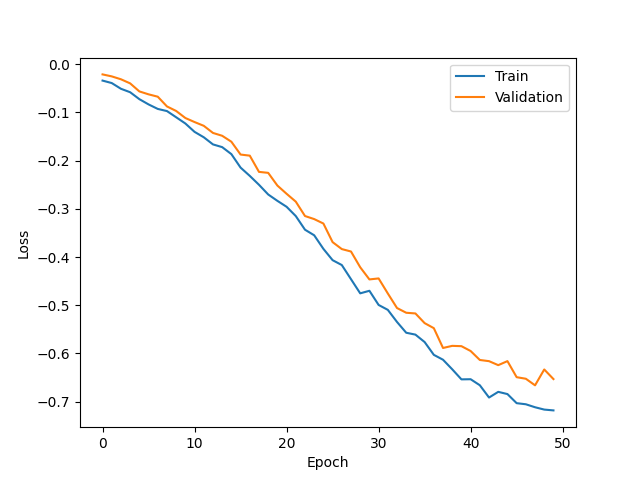
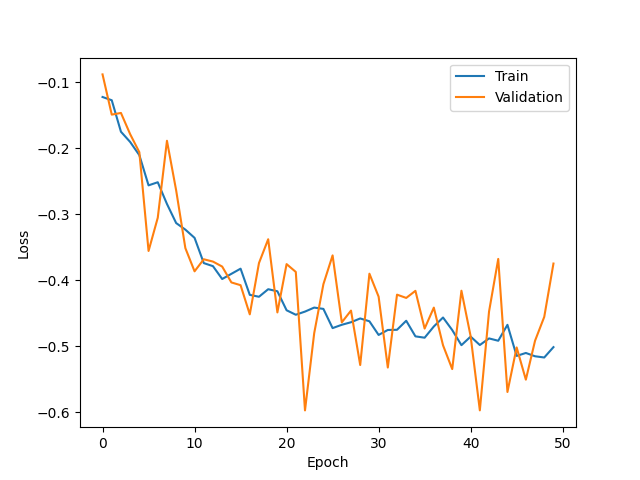
fix

diff --git a/src/make_data.py b/src/make_data.py
@@ -64,16 +64,17 @@ class DatasetGenerator:
         np.random.seed(self.seed)
         T_prob = sigmoid(
             (
-                np.dot(features[:, :2], np.random.uniform(1.0, 1.5, size=2))
-                - 1.0
+                np.sum(features, axis=1)
+                - 2.0
                 + np.random.normal(0, 0.0, size=len(features))
             )
-            / 1.5
+            / 0.8
         )
         T_prob = T_prob.clip(0.01, 0.99)
         T: NDArray[Any] = np.random.binomial(1, T_prob).astype(bool)
         treatment_prob = T_prob[T == 1]
         control_prob = T_prob[T == 0]
+        # plt.hist(T_prob, bins=20, alpha=0.5, label="T_prob")
         plt.hist(treatment_prob, bins=20, alpha=0.5, label="T=1")
         plt.hist(control_prob, bins=20, alpha=0.5, label="T=0")
         plt.legend()
@@ -120,12 +121,10 @@ class DatasetGenerator:
         np.random.seed(self.seed)
 
         def effect(features: NDArray[Any]) -> Tuple[NDArray[Any], NDArray[Any]]:
-            baseline_effect = np.dot(
-                features[:, :2], np.random.uniform(1.0, 1.5, 2)
-            )
+            baseline_effect = np.dot(features[:, :2], np.random.uniform(0.7, 1.0, 2)) - 1.0
             interaction_effect = np.exp(
                 np.dot(features[:, 2:4], np.random.uniform(0.3, 0.5, 2))
-                + 0.4 * features[:, 0]
+                + 0.2 * features[:, 0]
             )
             return baseline_effect, interaction_effect
 
@@ -135,7 +134,7 @@ class DatasetGenerator:
         noise = np.random.normal(0, std, size=len(features))
         a = 2.0
         prob_visit = np.clip(
-            sigmoid((baseline_effect + treatment_effect - a) / (2 * a)) + noise,
+            sigmoid((baseline_effect + treatment_effect - a) / (a)) + noise,
             0.01,
             0.99,
         )
@@ -148,28 +147,26 @@ class DatasetGenerator:
         baseline_effect_control, interaction_effect_control = effect(control_features)
         prob_visit_treatment = np.clip(
             sigmoid(
-                (baseline_effect_treatment + interaction_effect_treatment - a) / (2 * a)
+                (baseline_effect_treatment + interaction_effect_treatment - a) / (a)
             )
             + noise[: len(treatment_features)],
             0.01,
             0.99,
         )
         prob_visit_control = np.clip(
-            sigmoid((baseline_effect_control - a) / (2 * a))
+            sigmoid((baseline_effect_control - a) / (a))
             + noise[len(treatment_features) :],
             0.01,
             0.99,
         )
         prob_visit_treatment_if_non_treatment = np.clip(
-            sigmoid((baseline_effect_treatment - a) / (2 * a))
+            sigmoid((baseline_effect_treatment - a) / (a))
             + noise[: len(treatment_features)],
             0.01,
             0.99,
         )
         prpb_visit_control_if_treatment = np.clip(
-            sigmoid(
-                (baseline_effect_control + interaction_effect_control - a) / (2 * a)
-            )
+            sigmoid((baseline_effect_control + interaction_effect_control - a) / (a))
             + noise[len(treatment_features) :],
             0.01,
             0.99,
@@ -184,7 +181,9 @@ class DatasetGenerator:
             alpha=0.5,
             label="if_non_treatment",
         )
-        # plt.hist(prpb_visit_control_if_treatment, bins=20, alpha=0.5, label="if_treatment")
+        plt.hist(
+            prpb_visit_control_if_treatment, bins=20, alpha=0.5, label="if_treatment"
+        )
         plt.legend()
         plt.savefig("visit_prob.png")
         # import pdb
@@ -210,10 +209,12 @@ class DatasetGenerator:
         np.random.seed(self.seed)
 
         def effect(features: NDArray[Any]) -> Tuple[NDArray[Any], NDArray[Any]]:
-            baseline_effect = np.dot(features[:, 0].reshape(-1, 1), np.random.uniform(1.5, 2.0, 1))
+            baseline_effect = np.dot(
+                features[:, 0].reshape(-1, 1), np.random.uniform(1.0, 1.5, 1)
+            ) - 1.0
             interaction_effect = np.exp(
-                np.dot(features[:, 2].reshape(-1, 1), np.random.uniform(0.5, 0.7, 1))
-                + 0.4 * features[:, 0]
+                np.dot(features[:, 2].reshape(-1, 1), np.random.uniform(0.3, 0.5, 1))
+                + 0.2 * features[:, 0]
             )
             return baseline_effect, interaction_effect
 
@@ -223,8 +224,7 @@ class DatasetGenerator:
         noise = np.random.normal(0, std, size=len(features))
         a = 2.0
         prob_purchase = np.clip(
-            sigmoid((baseline_effect + treatment_effect - a) / (2 * a))
-            + noise,
+            sigmoid((baseline_effect + treatment_effect - a) / (a)) + noise,
             0.01,
             0.99,
         )
@@ -236,21 +236,29 @@ class DatasetGenerator:
         baseline_effect_control, interaction_effect_control = effect(control_features)
         prob_purchase_treatment = np.clip(
             sigmoid(
-                (baseline_effect_treatment + interaction_effect_treatment - a) / (2 * a)
+                (baseline_effect_treatment + interaction_effect_treatment - a) / (a)
             )
             + noise[: len(treatment_features)],
             0.01,
             0.99,
         )
         prob_purchase_control = np.clip(
-            sigmoid((baseline_effect_control - a) / (2 * a))
+            sigmoid((baseline_effect_control - a) / (a))
             + noise[len(treatment_features) :],
             0.01,
             0.99,
         )
         prob_purchase_treatment_if_non_treatment = np.clip(
-            sigmoid((baseline_effect_treatment - a) / (2 * a))
+            sigmoid((baseline_effect_treatment - a) / (a))
             + noise[: len(treatment_features)],
+            0.01,
+            0.99,
+        )
+        prob_purchace_control_if_treatment = np.clip(
+            sigmoid(
+                (baseline_effect_control + interaction_effect_control - a) / (a)
+                + noise[len(treatment_features) :]
+            ),
             0.01,
             0.99,
         )
@@ -266,11 +274,14 @@ class DatasetGenerator:
             alpha=0.5,
             label="if_non_treatment",
         )
+        plt.hist(
+            prob_purchace_control_if_treatment, bins=20, alpha=0.5, label="if_treatment"
+        )
         plt.legend()
         plt.savefig("purchase_prob.png")
-        # import pdb
+        import pdb
 
-        # pdb.set_trace()
+        pdb.set_trace()
         true_mu_r_1 = sigmoid(baseline_effect + interaction_effect - a) + noise
         true_mu_r_0 = sigmoid(baseline_effect - a) + noise
         true_tau_r = true_mu_r_1 - true_mu_r_0

diff --git a/src/model/direct.py b/src/model/direct.py
@@ -96,6 +96,7 @@ class DirectCollator:
         y_r = torch.cat([y_r_treated, y_r_control], dim=0)
         y_c = torch.cat([y_c_treated, y_c_control], dim=0)
 
+
         return {
             "X": X,
             "treated_size": treated_size,
@@ -144,7 +145,7 @@ class DirectNonLinear(nn.Module):
         y_c: Optional[torch.Tensor] = None,
     ) -> Dict[str, torch.Tensor]:
         pred = self._predict(X)
-        if treated_size is not None and y_r is not None and y_c is not None:
+        if treated_size is not None and y_r is not None and y_c is not None:            
             q_treated = pred[:treated_size]
             y_r_treated = y_r[:treated_size]
             y_c_treated = y_c[:treated_size]
@@ -170,7 +171,7 @@ class DirectNonLinear(nn.Module):
 def custom_loss(
     y_r: torch.Tensor, y_c: torch.Tensor, q: torch.Tensor, group_size: int
 ) -> torch.Tensor:
-    q = torch.clamp(q, 1e-6, 1 - 1e-6)  # (N, 1)
+    q = torch.clamp(q, 1e-5, 1 - 1e-5)  # (N, 1)
     logit_q = torch.log(q / (1 - q))  # (N, 1)
 
     loss = -torch.sum(y_r * logit_q + y_c * torch.log(1 - q)) / group_size

diff --git a/main.py b/main.py
@@ -75,7 +75,7 @@ def main(predict_ps: bool) -> None:
     n_features = 4
     num_epochs = 50
     delta = 0.0
-    batch_size = 1024
+    batch_size = 512
     model_name = "Direct"
     model_params = {"input_dim": n_features}
     dataset = DatasetGenerator(
@@ -88,7 +88,7 @@ def main(predict_ps: bool) -> None:
     method_list = method_list[:2]
     # method_list = []
     roi_dic = {}
-    lr_list: list = [0.005, 0.0005, 0.0005]
+    lr_list: list = [0.001, 0.001]
     for i, method in enumerate(method_list):
         train_dl = make_loader(
             train_dataset,
